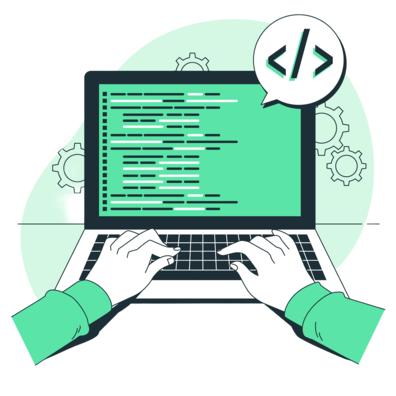
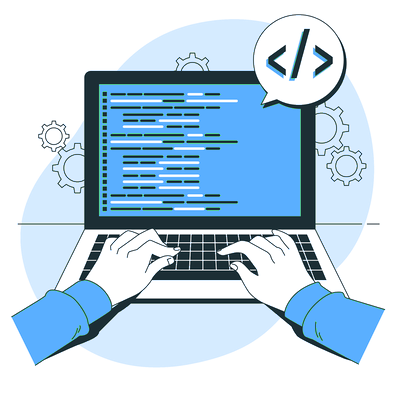
Add files via upload

diff --git a/index.html b/index.html
@@ -29,7 +29,7 @@
             <a class="apresentacao__links__botao" href="https://www.linkedin.com/in/juliaaraujodev"><img src="/img/linkedin.png">Linkedin</a>
         </div>
         </section>
-        <img class="apresentacao__imagem" src="img/computador.png" alt="foto-julia">
+        <img class="apresentacao__imagem" src="img/luxa.org-color-changed-6502423 (2).png" alt="foto-julia">
     </main>
     <footer class="rodape">
         <p>desenvolvido por Júlia Araujo</p>

diff --git a/about.html b/about.html
@@ -41,7 +41,7 @@
                 web ou nos estudos de cibersegurança, uma área que desejo explorar e me especializar ao longo dos anos
                 para expandir ainda mais minhas oportunidades profissionais.</p>
         </section>
-        <img class="apresentacao__imagem" src="/img/eueu.jpg" alt="eu">
+        <img class="apresentacao__imagem" src="/img/azuul.jpeg" alt="eu">
     </main>
     <footer class="rodape">
         <p>desenvolvido por Júlia Araujo</p>

diff --git a/styles/style.css b/styles/style.css
@@ -3,7 +3,7 @@
 :root{
     --cor-primaria: #000000;
     --cor-secundaria: #F6F6F6;
-    --cor-terciaria: #0bcb55;
+    --cor-terciaria: #2065ae;
     --cor-hover: #272727;
 
     --font-primaria: 'Krona One', sans-serif;
@@ -125,7 +125,7 @@ body {
 
 @media (max-width: 1300px){
     .cabecalho{
-        padding: 10%;
+        padding: 3%;
     }
 
     .cabecalho__menu{

diff --git a/curriculo.html b/curriculo.html
@@ -47,7 +47,7 @@
             </ul>
             </div>    
         </section>
-        <img class="apresentacao__imagem" src="./img/menino-codigo.png" alt="Imagem Anne">
+        <img class="apresentacao__imagem" src="./img/0101.jpg" alt="Imagem Anne">
     </main> 
     <footer class="rodape">
         <p>desenvolvido por Júlia Araujo</p>
